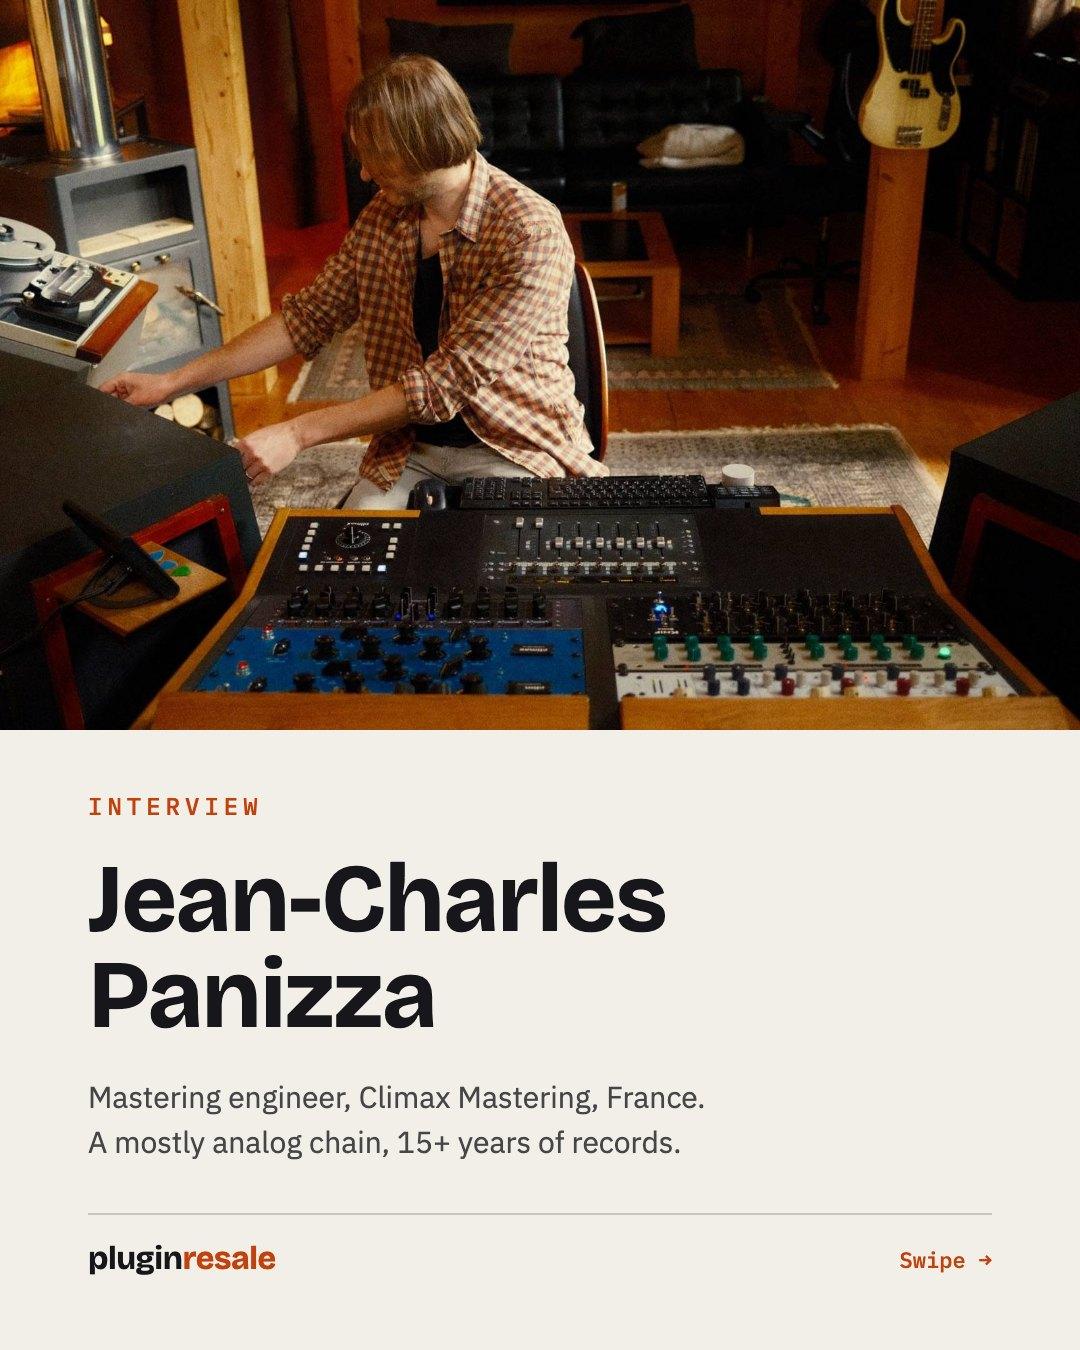
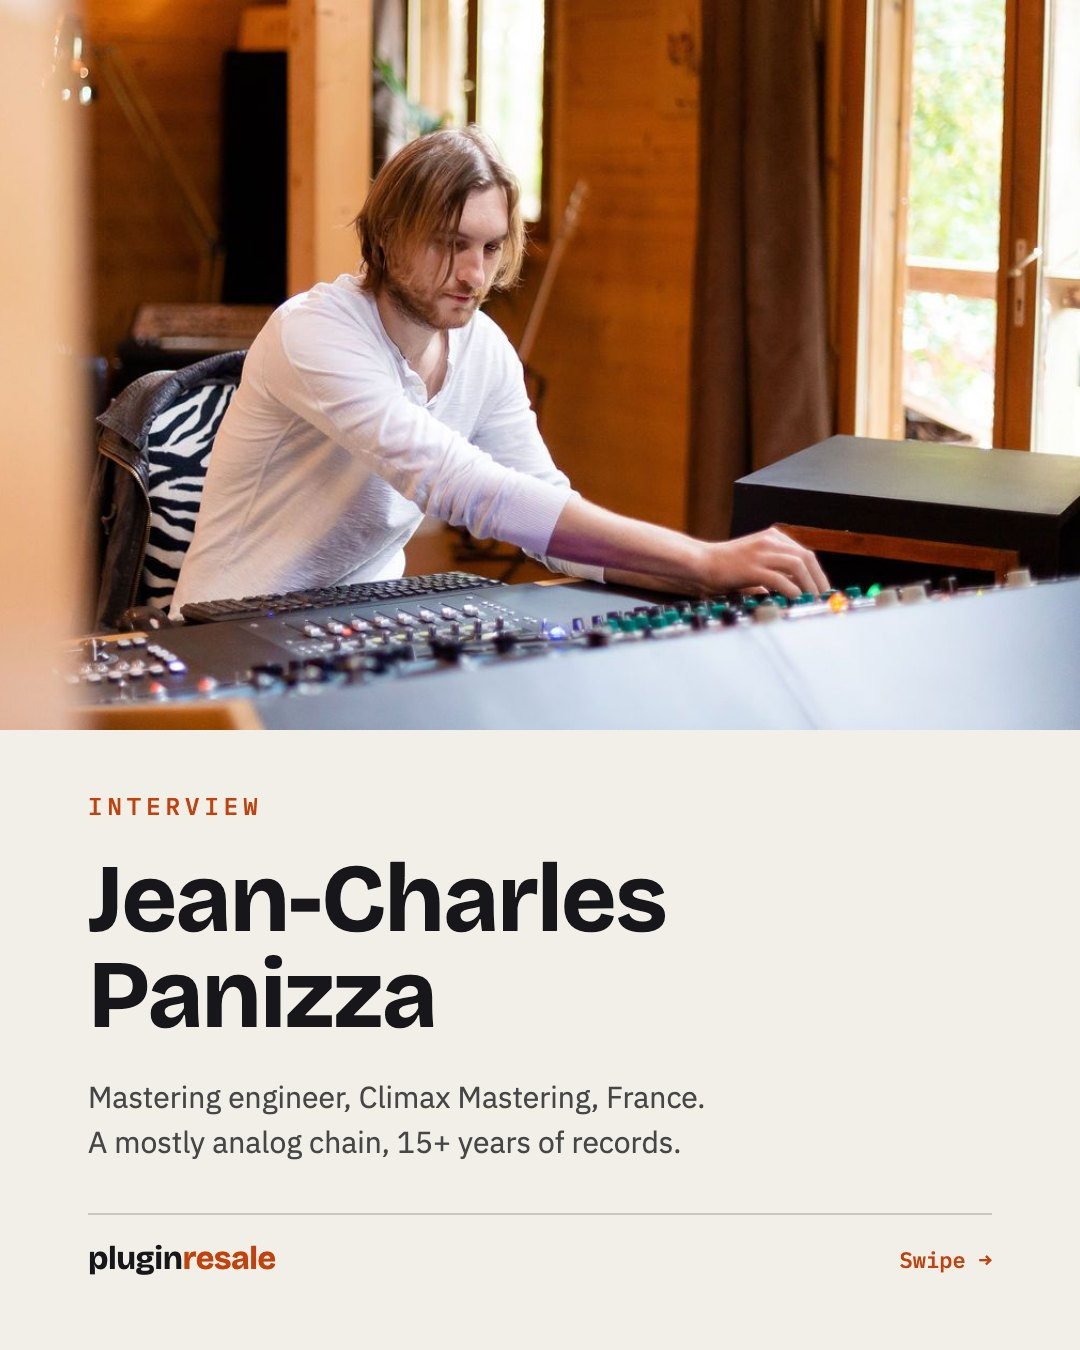
Climax Mastering interview: JC portrait as lead photo, preview image and carousel cover

diff --git a/content/blog/_climax-mastering-interview.md b/content/blog/_climax-mastering-interview.md
@@ -2,7 +2,7 @@
 title: "Jean-Charles Panizza (Climax Mastering) on analog color, Weiss plugins, vinyl and building a new room"
 description: French mastering engineer Jean-Charles Panizza of Climax Mastering talks about his mostly analog chain, the custom box he built to run it, the three plugins he would keep, mastering for vinyl, and the new room he is building.
 date: 2026-10-08
-image: /blog/climax-mastering-interview/at-work.jpg
+image: /blog/climax-mastering-interview/portrait.jpg
 ---
 
 Jean-Charles Panizza has been mastering for over fifteen years. He started Climax Mastering in 2010 with a friend from sound school and has run it on his own since 2020, in an all-wood room in Bazemont, west of Paris, built around a mostly analog chain and a few carefully chosen plugins.
@@ -10,7 +10,7 @@ Jean-Charles Panizza has been mastering for over fifteen years. He started Clima
 We talked about how he found his way into mastering, why hardware still runs his chain, the three plugins he would keep, mastering for vinyl, and the new room he is building.
 
 <figure>
-  <img src="/blog/climax-mastering-interview/jc.jpg" alt="Jean-Charles Panizza at his mastering desk, reaching towards the tape machine, a bass hanging on the wall behind him" width="1600" height="1201">
+  <img src="/blog/climax-mastering-interview/portrait.jpg" alt="Jean-Charles Panizza adjusting a knob on his mastering desk, in front of the studio's wooden walls" width="1024" height="683">
   <figcaption>Jean-Charles Panizza at Climax Mastering.</figcaption>
 </figure>
 
@@ -55,6 +55,11 @@ Maybe you could get similar results working in the box... Personally, I get bett
 Some digital tools are just too good to ignore, even for an analog geek like me! The ones I reach for most are limiters, de-essers, some very precise EQs, and of course restoration tools. What I find most interesting about them is that they offer solutions that simply don't exist in the analog world.
 
 I really can't choose between analog and digital. I think they complement each other really well!
+
+<figure>
+  <img src="/blog/climax-mastering-interview/jc.jpg" alt="Jean-Charles Panizza at his mastering desk, reaching towards the tape machine, a bass hanging on the wall behind him" width="1600" height="1201" loading="lazy">
+  <figcaption>Between the desk and the tape machine.</figcaption>
+</figure>
 
 ### How does your approach change when you master for vinyl compared to streaming?
 
